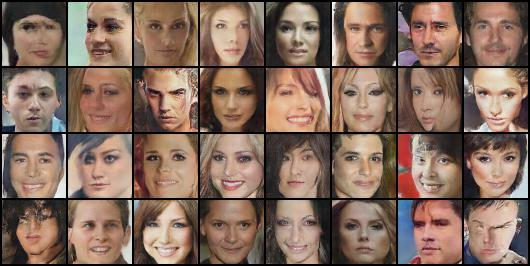
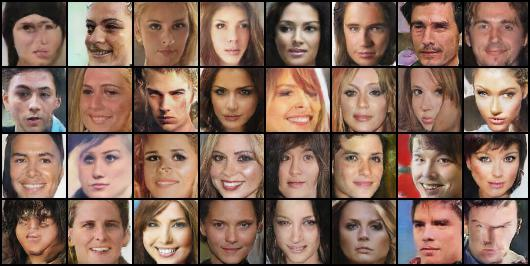
modify results

diff --git a/hw4/gan_inference.py b/hw4/gan_inference.py
@@ -10,7 +10,7 @@ import os
 
 
 def main(args):
-    torch.manual_seed(1)
+    torch.manual_seed(1337)
 
     output_file = os.path.join(args.output_file)
     if not os.path.exists(output_file):
@@ -79,7 +79,7 @@ if __name__ == '__main__':
     parser.add_argument('--output-file', default='saved/gan',
                         help='output data directory')
     parser.add_argument('--checkpoint',
-                        default='checkpoints/gan/epoch10_checkpoint.pth.tar',
+                        default='checkpoints/gan/epoch231_checkpoint.pth.tar',
                         help='load checkpoint')
     parser.add_argument('--no-cuda', action='store_true',
                         help='use CPU in case there\'s no GPU support')
